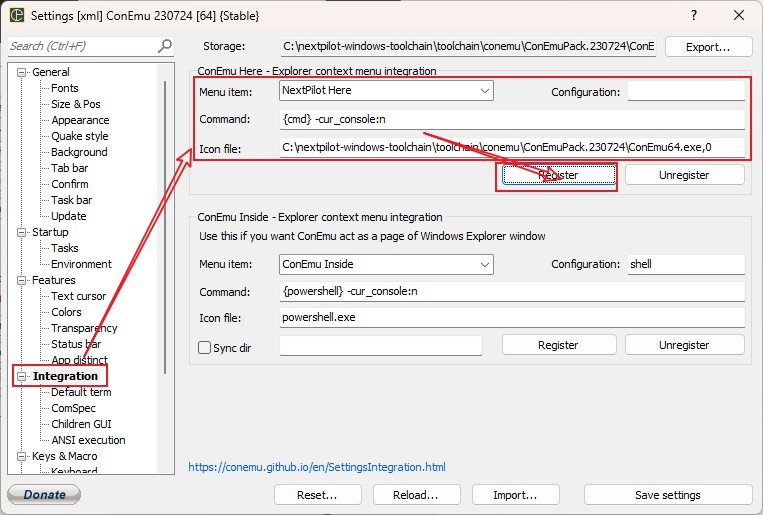
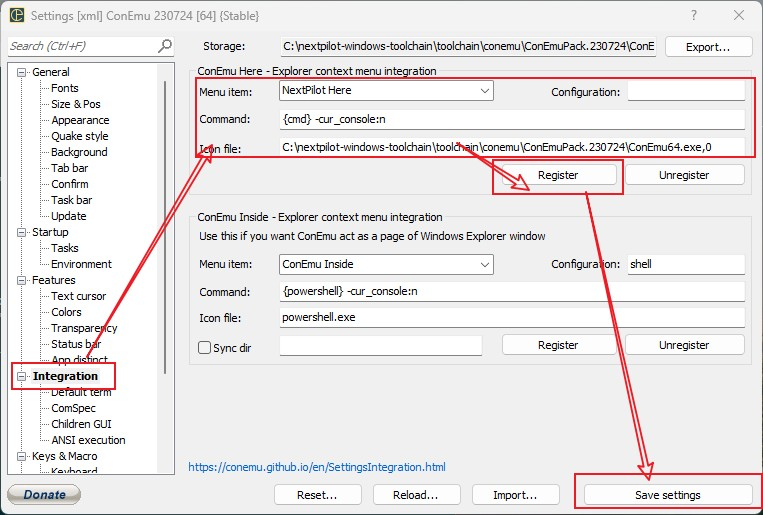
优化ReadMe.md文件

diff --git a/README.md b/README.md
@@ -38,13 +38,12 @@
 Fatal error in launcher: Unable to create process using '"C:\nextpilot-windows-toolchain\toolchain\python\python-3.11.9-amd64\python.exe"  "D:\nextpilot-windows-toolchain\toolchain\python\python-3.11.9-amd64\Scripts\scons.exe" ': ???????????
 ```
 
-2 双击根目录下的`start.bat`脚本（为了方便下次使用，建议将start.bat添加桌面快捷方式），启动终端。如果已经添加了右键菜单，则可以在`bsps/sitl/qemu`文件夹上点击鼠标右键方式启动终端。
+2 双击根目录下的`start.bat`脚本（为了方便下次使用，建议将start.bat添加桌面快捷方式），启动终端。如果已经将 NextPilot 添加到 Windows 右键菜单，那么可以在`bsps/sitl/qemu`文件夹上`点击鼠标右键` 选择 `NextPilot Here`方式启动终端。
 
 ![](./toolchain/conemu/start-from-contex-menu.jpg)
 
 ```bat
-https://github.com/chrisant996/clink
-Microsoft Windows [版本 10.0.19045.4412]
+
 ******************************************************************
 *      _   __             __   ____   _  __        __
 *     / | / /___   _  __ / /_ / __ \ (_)/ /____   / /_
@@ -61,7 +60,7 @@ Clink v1.6.14 is available.
 - To view the release notes, visit the Releases page:
   https://github.com/chrisant996/clink/releases
 
-# LaterComer @ LAPTOP-TL7N7OT4 in C:\nextpilot-windows-toolchain on git:master x [10:36:17]
+LaterComer@DESKTOP-JTKLBS9 C:\nextpilot-flight-control-public\bsps\sitl\qemu
 ```
 
 3 在cmd中切换到`nextpilot-flight-control`的bsp目录，然后执行配置、编译、仿真等
@@ -92,7 +91,7 @@ qemu.bat
 
 ### 添加到右键菜单
 
-打开 ConEmu 设置页面，按照下图所示可以添加右键快捷菜单：
+打开 `ConEmu > Settings...` 设置页面，按照下图所示可以添加右键快捷菜单：
 
 - Menu item：`NextPilot Here`
 - Command：`{cmd} -cur_console:n`
@@ -102,7 +101,7 @@ qemu.bat
 
 ### 集成到Windows Terminal
 
-打开 Windows Termial 设置页面，选择`添加新配置文件`，按照如下填写
+打开 `Windows Termial > 设置` 设置页面，选择`添加新配置文件`，按照如下填写
 
 - 名称：`NextPilot Windows Toolchain`
 - 命令行：`cmd.exe /k C:\nextpilot-windows-toolchain\init.bat`
@@ -110,7 +109,7 @@ qemu.bat
 
 ![](./toolchain/conemu/add-to-window-terminal.jpg)
 
-> 为了方便使用，可以通过 `Windows Terminal > Setting > 启动 > 默认配置文件`，将 NextPilot Windows Toolchain 设置为默认终端
+> 为了方便使用，建议将 NextPilot Windows Toolchain 设置为默认终端，设置方式是： `Windows Terminal > 设置 > 启动 > 默认配置文件`，
 
 ### 安装其它pip模块
 
